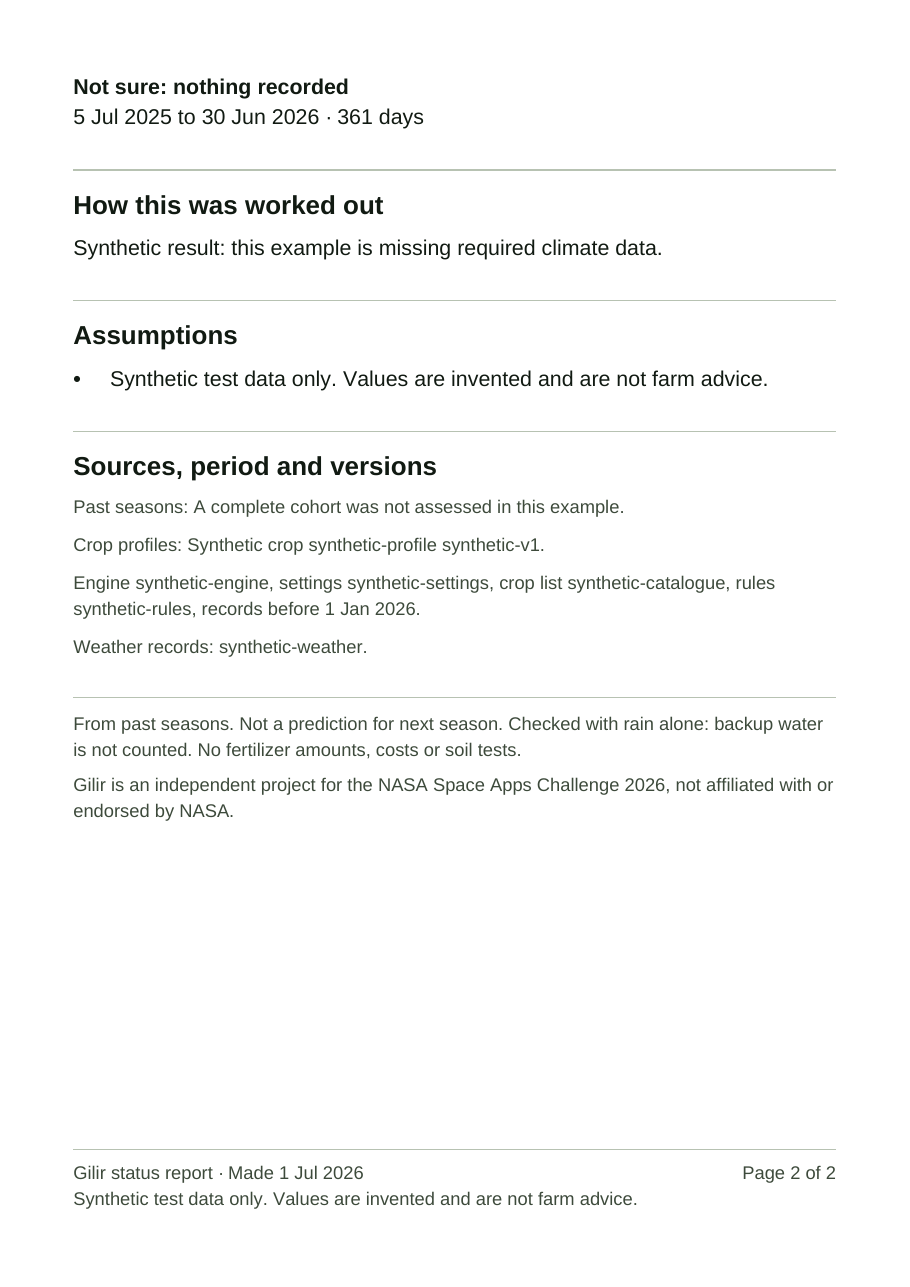
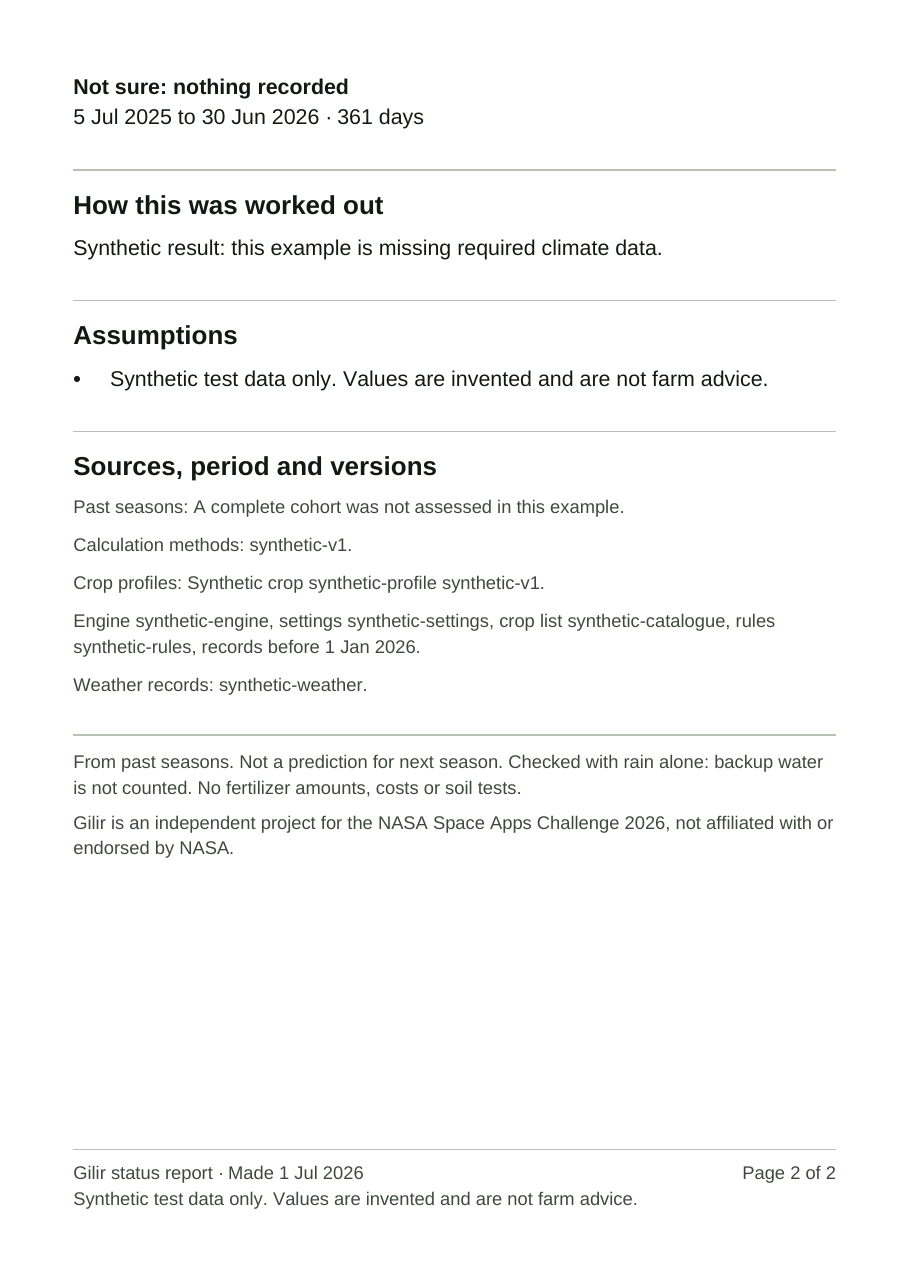
fix(F4): correct what download.spec compares, and refresh the fixture evidence
- D1. The evidence README said download.spec compares each download to
  the committed PDFs. It compares it to a fresh node render of the same
  snapshot; cmp then showed the downloads equal the committed files.
- The three fixture PDFs are rendered again with evidence.ts. Each gains
  the "Calculation methods: synthetic-v1." line and nothing else, with
  the same page counts. The four pages that changed (plan 3 and 4,
  warning plan 4, missing data 2) are rendered again and were looked at;
  the other pages and both gray pages render identically. pdfinfo,
  pdffonts, pdftotext, both Playwright runs, the offline viewer captures
  and the phone-speed load timing are refreshed.
- The README records the new storage behaviour, the Vitest retry test,
  overlapping Playwright runs and a clean merge onto origin/main, and
  inspection.md records the pages looked at for this round's fixes.

Claude-Session: https://claude.ai/code/session_01DwR15oMch4WdwGA24XzcK2

Changed region(s): [[0.0615, 0.404, 0.9231, 0.6838]]

diff --git a/docs/evidence/F4/README.md b/docs/evidence/F4/README.md
@@ -8,36 +8,38 @@ The browser checks ran in Chromium (Google Chrome for Testing 153.0.8010.12, hea
 
 | File | What it is |
 | --- | --- |
-| `fixture-plan.pdf`, `fixture-plan_with_warnings.pdf`, `fixture-insufficient_data.pdf` | The PDFs `evidence.ts` writes (`en-GB` reader, UTC, A4). `download.spec.ts` downloads the same three in Chromium and checks that they equal these bytes. |
+| `fixture-plan.pdf`, `fixture-plan_with_warnings.pdf`, `fixture-insufficient_data.pdf` | The PDFs `evidence.ts` writes (`en-GB` reader, UTC, A4). `download.spec.ts` downloads the same three in Chromium and checks each against a fresh node render of its snapshot (`renderPdf`), byte for byte. `cmp` then showed the three downloaded files equal these. |
 | `fixture-plan-1.png` to `-4.png`, `fixture-plan_with_warnings-1.png` to `-4.png`, `fixture-insufficient_data-1.png` and `-2.png` | Every page of the three downloaded PDFs at 110 dpi. |
 | `fixture-plan_with_warnings-gray-1.png`, `-gray-2.png` | The warning plan's status box and timeline pages in grayscale. |
 | `fixture-plan_with_warnings-offline-viewer.png`, `fixture-insufficient_data-offline-viewer.png` | Chromium's own PDF viewer showing the saved files with the network off. |
 | `fixture-poppler.txt` | `pdfinfo`, `pdffonts` and `pdftotext -layout` for the three downloaded PDFs. |
 | `fixture-playwright.txt` | The final Ps and Pd runs, one line per case. |
-| `fixture-load-timing.json` | The load time of a 300 KB synthetic snapshot under a 6x CPU throttle, measured before the review fixes. Since then `storage.ts` has changed only in its notice words, its comments and one parameter name. |
+| `fixture-load-timing.json` | The load time of a 300 KB synthetic snapshot under a 6x CPU throttle, measured on the current `storage.ts`. |
 | `inspection.md` | What a person saw on every page of the three downloaded PDFs. |
 
 ## Commands and observed results
 
 | Key | Command | Observed |
 | --- | --- | --- |
-| V | `npx vitest run tests/frontend/persistence tests/frontend/pdf` | exit 0; 9 files, 187 tests passed; no `it.todo` or `test.fixme` is left in either folder |
-| C | `npm run check` | exit 0; typegen and `tsc` clean; Vitest 54 files passed and 5 skipped, 733 tests passed and 29 skipped; "Module boundaries passed." |
+| V | `npx vitest run tests/frontend/persistence tests/frontend/pdf` | exit 0; 9 files, 200 tests passed; no `it.todo` or `test.fixme` is left in either folder |
+| C | `npm run check` | exit 0; typegen and `tsc` clean; Vitest 54 files passed and 5 skipped, 746 tests passed and 29 skipped; "Module boundaries passed." |
 | B | `npm run build` | exit 0; compiled, TypeScript finished, every route built |
-| Ps | `env -u CLAUDECODE -u AI_AGENT PW_CHROMIUM=/opt/pw-browsers/chromium npx playwright test -c tests/frontend/persistence/playwright.config.ts storage.spec` | 16 passed ([output](fixture-playwright.txt)) |
+| Ps | `env -u CLAUDECODE -u AI_AGENT PW_CHROMIUM=/opt/pw-browsers/chromium npx playwright test -c tests/frontend/persistence/playwright.config.ts storage.spec` | 17 passed ([output](fixture-playwright.txt)) |
 | Pd | the same with `download.spec` | 7 passed ([output](fixture-playwright.txt)) |
 | E | `node --import tsx tests/frontend/pdf/evidence.ts docs/evidence/F4` | the three PDFs written; `cmp` shows the three files Pd downloaded are byte-identical to these. With `--all` and another folder it writes all 21 (6 states, 14 variants, the plan on Letter) |
-| | `pdftoppm -r 110 -png fixture-<state>.pdf fixture-<state>` for the three downloaded PDFs | 10 page PNGs |
-| | `pdftoppm -r 110 -gray -png -f 1 -l 2 fixture-plan_with_warnings.pdf fixture-plan_with_warnings-gray` | 2 PNGs; every pixel was already gray, so they were stored as 8-bit gray with no loss |
+| | `pdftoppm -r 110 -png fixture-<state>.pdf fixture-<state>` for the three downloaded PDFs | 10 page PNGs. After the second review's fixes, only plan pages 3 and 4, warning plan page 4 and missing-data page 2 changed, each by the new "Calculation methods" line; the other six rendered byte-identical |
+| | `pdftoppm -r 110 -gray -png -f 1 -l 2 fixture-plan_with_warnings.pdf fixture-plan_with_warnings-gray` | 2 PNGs; every pixel was already gray, so they were stored as 8-bit gray with no loss. Rendered again after the second review's fixes, pixel-identical |
 | | `pdfinfo`, `pdffonts` and `pdftotext -layout` on the three downloaded PDFs | A4, 4, 4 and 2 pages; title "Gilir crop plan, made 1 Jul 2026" or "Gilir status report, made 1 Jul 2026"; Creator and Producer "Gilir"; JavaScript no; fonts Helvetica and Helvetica-Bold, Type 1, WinAnsi, not embedded ([output](fixture-poppler.txt)) |
 | I | A person looked at every page image | [inspection.md](inspection.md): nothing clipped, every warning and source printed, the period stated, no calendar in the status report |
-| Timing | `storage.spec -g "phone-speed" --repeat-each 5` | all 5 passed; a 306,322-byte snapshot loads in a median of 65 ms warm and 149 ms on the first load of a page, worst 368 ms, against a 5,000 ms limit ([numbers](fixture-load-timing.json)) |
+| Timing | `storage.spec -g "phone-speed" --repeat-each 5` | all 5 passed; a 306,322-byte snapshot loads in a median of 51.5 ms warm and 100.9 ms on the first load of a page, worst 169.1 ms, against a 5,000 ms limit ([numbers](fixture-load-timing.json)) |
+| Overlap | a storage.spec run and a download.spec run started at the same time, with no `F4_PORT` | both passed. Before the harness took a free port, the second failed with "Port 3300 is already in use" |
+| M | `git merge-tree --write-tree origin/main HEAD`, then `tsc --noEmit`, `vitest run tests/frontend` and `check-boundaries.mjs` on that tree | clean merge onto a `main` that already holds PR #42 at 54a76bc; `tsc` exit 0; 24 files, 529 tests passed, F1's onboarding tests among them; "Module boundaries passed." |
 
 ## What each card item rests on
 
 **A saved result stays readable after a browser restart and a server expiry, and draft and job restoration are covered.** `storage.spec` saves a partial draft, page 3, a job capability and the plan snapshot, closes Chromium, launches it again on the same user data folder, and loads the same state with the snapshot's id, date and provenance unchanged. With every `/api` request answering 404 `not_found`, and again with every request failing, a reload still loads the snapshot. The route sees only the test's own probe request, so `load` sent nothing. `load`, `save`, `readStorageNotice` and `clear` send no request at all.
 
-**A full device, blocked storage and an invalid old record give useful words, with no silent loss and no made-up defaults.** With a 256 KB quota, a save of incompressible data rejects with "This device has no room left to save Gilir.", the earlier state still loads, and a save that fits still works. In a sandboxed frame, `load`, `save` and `clear` reject with "This browser isn’t letting Gilir open or save your answers on this device." An old record written with raw IndexedDB loads its answers with the snapshot left out (null, never a default), the notice says "Your saved plan can’t be opened by this version of Gilir. Make the plan again to see it. Your answers are kept.", and the record sits unchanged in the set-aside record. The notice survives a restart until dismissed and stays gone after a dismiss and a restart. Clearing site data while the page is open makes the next load resolve null, not reject. A newer database rejects "newer" and stays untouched. Another tab's upgrade is not blocked. A tab holding the database stops a save at the 5 s limit, and that save changed nothing. The farmer sees these words only once F1 shows them, so the screen half of this item is PARTIAL.
+**A full device, blocked storage and an invalid old record give useful words, with no silent loss and no made-up defaults.** With a 256 KB quota, a save of incompressible data rejects with "This device has no room left to save Gilir.", the earlier state still loads, and a save that fits still works. In a sandboxed frame, `load`, `save` and `clear` reject with "This browser isn’t letting Gilir open or save your answers on this device." An old record written with raw IndexedDB loads its answers with the snapshot left out (null, never a default), the notice says "Your saved plan can’t be opened by this version of Gilir. Make the plan again to see it. Your answers are kept.", and the record sits unchanged in the set-aside record. A notice read in the same tick as that load, before it or after it, names the plan too. The notice survives a restart until dismissed and stays gone after a dismiss and a restart. Clearing site data while the page is open makes the next load resolve null, not reject. A newer database rejects "newer" and stays untouched. Each state record carries the FarmInput and CompletedSnapshot versions of the build that wrote it, so an older build refuses a newer build's record, or a snapshot whose input is newer, instead of setting it aside (`record.test.ts`). On a full device, a load that can't set an unreadable part aside still returns the readable answers, and the next save sets that part aside first or rejects "full" with the old record kept. That is shown with the IndexedDB double in `record.test.ts` only: Chromium's quota override did not make that write fail. Another tab's upgrade is not blocked. A tab holding the database stops a save at the 5 s limit, and that save changed nothing. The farmer sees these words only once F1 shows them, so the screen half of this item is PARTIAL.
 
 **The fixture lab never touches the farmer's database.** A save under `/dev/fixtures/` is invisible at `/` and the reverse, `indexedDB.databases()` lists `gilir` and `gilir-fixture-lab`, and Clear in the lab leaves the farmer's state.
 
@@ -48,7 +50,7 @@ The browser checks ran in Chromium (Google Chrome for Testing 153.0.8010.12, hea
 - **NOT RUN.** Live end-to-end evidence with the assembled application and a real backend. Cards I1 to I3 own it.
 - **NOT RUN.** Safari and Firefox. Every browser case ran in Chromium only.
 - **NOT RUN.** A real cheap phone. The 6x throttle slows only the page's main thread, not IndexedDB's disk work.
-- **NOT RUN.** The specs under the root `playwright.config.ts`. Its web server starts `next dev`. Both configs list the same 23 cases.
+- **NOT RUN.** The specs under the root `playwright.config.ts`. Its web server starts `next dev`. Both configs list the same 24 cases.
 - **Not kept here.** The PDFs of the other three result states, the 14 variants and the Letter plan. The layout and export tests render every one of them on A4 and Letter; `evidence.ts --all` writes them for a person to look at.
 - **PARTIAL.** The farmer seeing the storage words and the set-aside notice. That needs F1 to show `readStorageNotice()` and `storageProblem(error).text`.
-- **Not shown by the harness.** Retrying the PDF after an offline failure. The harness loads native ES modules, and Chromium keeps a failed module fetch, so a retry there fails. The product build loads the PDF code as a webpack chunk, which forgets a failed load. A one-off production build with a probe page (outside the repo, then deleted) showed an offline export reject twice and the next online export return a PDF, in 3 of 3 rounds.
+- **Not shown by the harness.** Retrying the PDF after an offline failure. `export.test.ts` covers it in Vitest: the render import fails once, and the next export returns a PDF. Without the reset in `pdf.ts` that test fails. The harness can't show it in Chromium, because it loads native ES modules and Chromium keeps a failed module fetch. The product build loads the PDF code as a webpack chunk, which forgets a failed load. A one-off production build with a probe page (outside the repo, then deleted) showed an offline export reject twice and the next online export return a PDF, in 3 of 3 rounds.

diff --git a/docs/evidence/F4/inspection.md b/docs/evidence/F4/inspection.md
@@ -12,9 +12,9 @@ Each entry records clipping, warnings, source details, the data period, and read
 
 **Page 2** ([render](fixture-plan-2.png)). Row 2 continues as "No planned crop. 5 Jul 2026 to 30 Jun 2027 · 361 days", which matches the ranking's longest stretch, with a sentence on the day after harvest. "Why this plan ranked first" explains the fixed order and lists the four ranking rows in words: "Never", "None", "361 days", "361 days", each with its own explanation. The bold line "Shown, but not used to rank" has its two rows under it on the same page, and both print "Not available", not zero. The period line reads "Checked against 1 past season, Jul 2000. From past seasons, not a prediction. Checked with rain alone: backup water is not counted." Nothing is clipped. There are no warnings in this state.
 
-**Page 3** ([render](fixture-plan-3.png)). "Compared with last year" says last year's rotation ranked first, that the dates are approximate, the comparison of weeks with less rain ("This plan: 0%", "Last year’s rotation: 0%", "The same"), and, under "Changes from last year", "No changes: the same crops, order and dates as last year." That sentence is right here because the rotation was kept. "Get ready" prints the snapshot's one preparation line. "How this was worked out" prints the engine explanation. "Assumptions" prints the snapshot's one assumption. "Sources, period and versions" starts with the period "Checked against 1 past season, Jul 2000.", the cohort method `synthetic-v1`, and the crop profile with its version. Small text is 12 pt in dark gray-green and reads clearly. Nothing is clipped.
+**Page 3** ([render](fixture-plan-3.png)). "Compared with last year" says last year's rotation ranked first, that the dates are approximate, the comparison of weeks with less rain ("This plan: 0%", "Last year’s rotation: 0%", "The same"), and, under "Changes from last year", "No changes: the same crops, order and dates as last year." That sentence is right here because the rotation was kept. "Get ready" prints the snapshot's one preparation line. "How this was worked out" prints the engine explanation. "Assumptions" prints the snapshot's one assumption. "Sources, period and versions" starts with the period "Checked against 1 past season, Jul 2000.", the cohort method `synthetic-v1`, and "Calculation methods: synthetic-v1.", so the heading has three lines under it before the page ends. Small text is 12 pt in dark gray-green and reads clearly. Nothing is clipped.
 
-**Page 4** ([render](fixture-plan-4.png)). The versions continue with the engine, settings, crop list, rules, "records before 1 Jan 2026", and the weather records. The closing lines say the plan comes from past seasons, uses rain alone, and gives no fertilizer amounts, costs or soil tests. The last line says Gilir is not affiliated with or endorsed by NASA. The rest of the page is blank. The footer reads "Page 4 of 4".
+**Page 4** ([render](fixture-plan-4.png)). The versions continue with the crop profile and its version, the engine, settings, crop list, rules, "records before 1 Jan 2026", and the weather records. The closing lines say the plan comes from past seasons, uses rain alone, and gives no fertilizer amounts, costs or soil tests. The last line says Gilir is not affiliated with or endorsed by NASA. The rest of the page is blank. The footer reads "Page 4 of 4".
 
 ## fixture-plan_with_warnings.pdf (warning plan, 4 pages)
 
@@ -24,13 +24,13 @@ Each entry records clipping, warnings, source details, the data period, and read
 
 **Page 3** ([render](fixture-plan_with_warnings-3.png)). The ranking continues with "About 25%" for the shortfall, then the two day counts. "Shown, but not used to rank" keeps its two "Not available" rows with it. The period line is the same as the plan's. "Compared with last year" opens with "We couldn’t score last year’s rotation:" and its reason on the same page, then the estimate line, then "What you told us about last year (not scored)" with "Synthetic unlisted crop (not on our crop list)" and the empty stretch "5 Jul to 31 Jul 2025 · 27 days". Nothing is clipped.
 
-**Page 4** ([render](fixture-plan_with_warnings-4.png)). The last history row "Not sure: nothing recorded. 1 Aug 2025 to 30 Jun 2026 · 334 days" ends the comparison. Then "Get ready", "How this was worked out", "Assumptions", "Sources, period and versions" with the period and every version, and the closing lines. Nothing is clipped. The footer reads "Page 4 of 4".
+**Page 4** ([render](fixture-plan_with_warnings-4.png)). The last history row "Not sure: nothing recorded. 1 Aug 2025 to 30 Jun 2026 · 334 days" ends the comparison. Then "Get ready", "How this was worked out", "Assumptions", "Sources, period and versions" with the period, "Calculation methods: synthetic-v1." and every version, and the closing lines. Nothing is clipped. The footer reads "Page 4 of 4".
 
 ## fixture-insufficient_data.pdf (missing data, 2 pages)
 
 **Page 1** ([render](fixture-insufficient_data-1.png)). The title is "We can’t make a plan yet", and the footer calls the file a "Gilir status report". The head gives the place, the weather point, the made date, the year asked about, and the answers. The status box is ink-black with "No plan yet. Some information a plan needs is missing." "What’s missing" names "Enough complete past seasons of weather" with its reason, says that making the plan again gives the same answer until new data exists, and ends "This is a status report. No calendar is shown, because no plan was made." There is no timeline, no plant or harvest row, no ranking, and no "Get ready". "Compared with last year" says last year could not be scored, gives the reason, and lists what the farmer said under its bold line, which is not left alone at the page's end. Nothing is clipped.
 
-**Page 2** ([render](fixture-insufficient_data-2.png)). The comparison ends with "Not sure: nothing recorded. 5 Jul 2025 to 30 Jun 2026 · 361 days". "How this was worked out" and "Assumptions" follow. "Sources, period and versions" says in words that the past seasons are unavailable: "Past seasons: A complete cohort was not assessed in this example." It does not print a period of zero seasons. The crop profile and every version follow, then the closing lines. Nothing is clipped. The footer reads "Page 2 of 2".
+**Page 2** ([render](fixture-insufficient_data-2.png)). The comparison ends with "Not sure: nothing recorded. 5 Jul 2025 to 30 Jun 2026 · 361 days". "How this was worked out" and "Assumptions" follow. "Sources, period and versions" says in words that the past seasons are unavailable: "Past seasons: A complete cohort was not assessed in this example." It does not print a period of zero seasons. "Calculation methods: synthetic-v1.", the crop profile and every version follow, then the closing lines. Nothing is clipped. The footer reads "Page 2 of 2".
 
 ## Opened offline in Chromium's PDF viewer
 
@@ -44,6 +44,15 @@ These were made outside this folder from fixtures and variants and are not kept.
 - **The plan fixture for a `vi-VN` reader, page 1.** The timeline labels the months 7 to 6 with numbers, all twelve, because the Vietnamese short names are wider than a month.
 - **The no_calendar_fit fixture with an assessed, unranked baseline, page 1.** "Compared with last year" gives the verdict and "How they compare: No numbers to compare." and has no "Changes from last year" and no "No changes" line.
 - **variant-manySources.pdf, as text (`pdftotext -layout`).** Each weather product line ends with "Version synthetic-v1." and the product's URL as plain text.
+
+## Pages looked at for the second review's fixes
+
+Made in scratch with `renderPdf` for an `en-GB` reader at 80 dpi and not kept. Each snapshot is a fixture or variant with one field changed.
+
+- **changedBaseline with `eligible: false`, page 3.** "Compared with last year" opens "Last year’s rotation is shown for comparison only. It can’t be the suggestion, because it doesn’t meet every rule for a plan." No line says the new plan ranked ahead.
+- **The no_calendar_fit fixture, page 1.** The status box says "Together they need at least 366 days; your year has 365." "Why they don’t fit" starts with "Each crop needs at least:", so the sentence is printed once.
+- **The service_error fixture, page 1.** The status box says "Example source did not respond." "What happened" starts with "No new plan was made. It wasn’t anything you did."
+- **no_calendar_fit from 29 February 2028, with the water answer "I’m not sure", page 1.** The head reads "Your year: 29 Feb 2028 to 27 Feb 2029", which is the 365 days the status box gives. The note under "Good to know" is headed "Only rain is counted".
 
 ## What this inspection does not show
 
